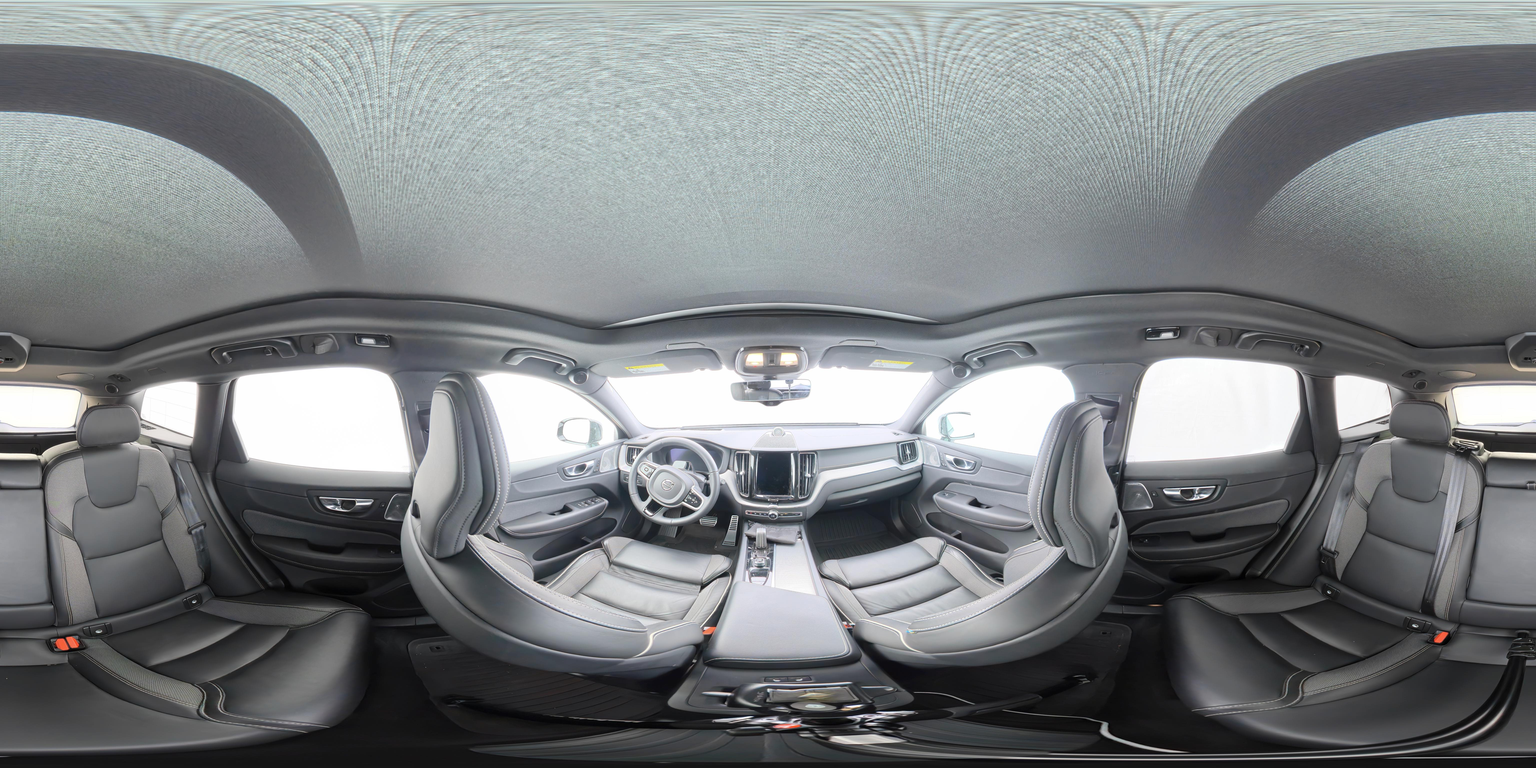
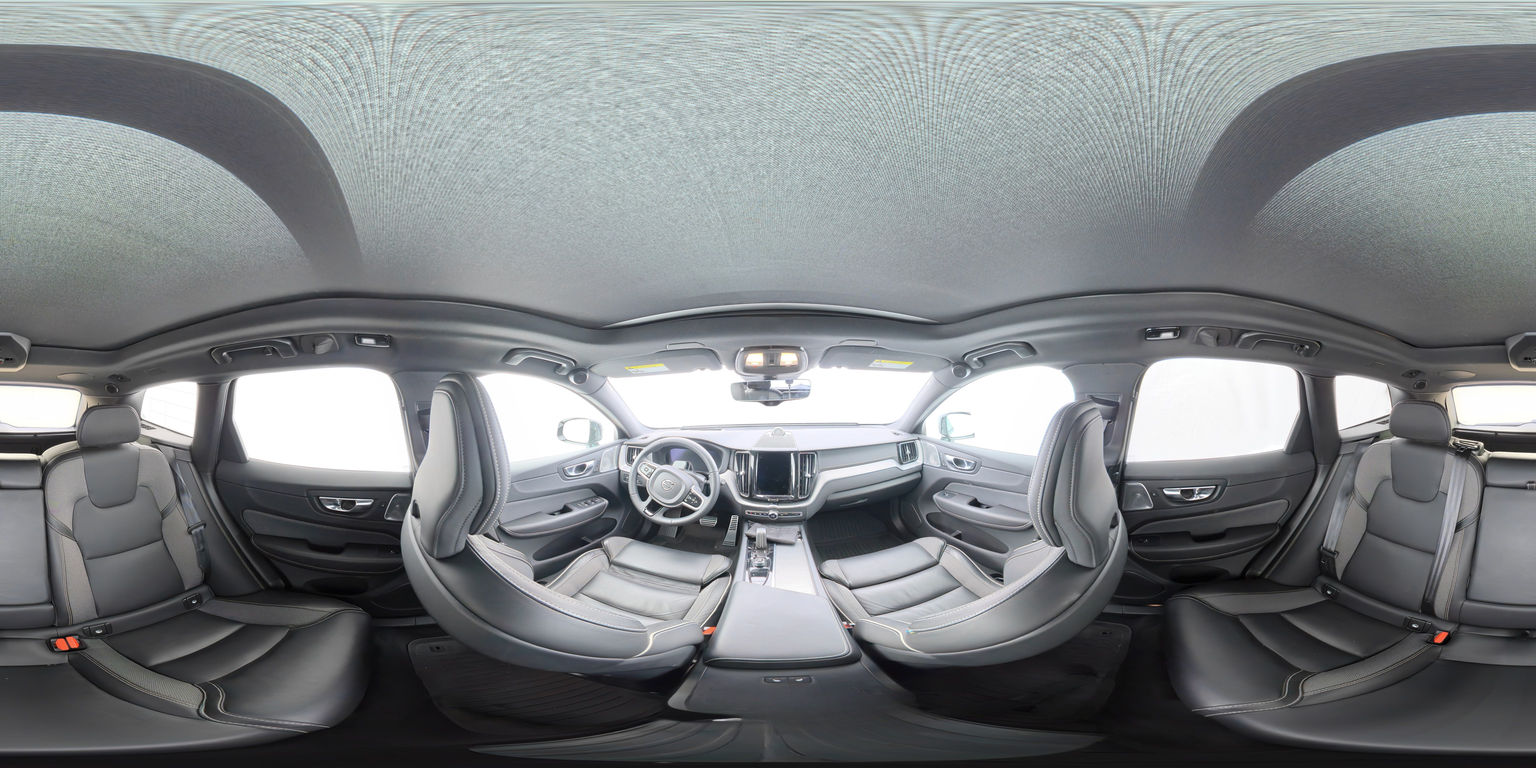
No-tripod panorama and aerial map inset
- photo.jpg: IMG_20260923_122559_00_011_notripod (tripod/cables retouched out),
  6144x3072 JPEG; aligned with the previous photo so all markers stay put
- Map inset ported from 20260921_360_Tour: aerial + hot zones, "You are here"
  caption, rounded/bordered frame at 80% opacity; Alcove is the current zone
  and hovering it re-centers to the opening view (70/70 easing)

Changed region(s): [[0.4062, 0.8125, 1.0, 1.0]]

diff --git a/index.html b/index.html
@@ -62,18 +62,26 @@
   #card p { margin: 0; font-size: 12pt; font-weight: 400; line-height: 1.4; }
   #card p:empty { display: none; }
   #card .close { position: absolute; top: -2.4em; right: 0; padding: 0.4em 0.6em; border: 0; background: none; color: #ffffff; font: 400 16pt system-ui; cursor: pointer; }
-  #map { position: fixed; right: 12px; top: 12px; width: 240px; height: 160px; background: rgba(0,0,0,0.55); border-radius: 2.64px; z-index: 10; }
-  #map-svg { width: 100%; height: 100%; }
-  #map-svg text { font-family: 'Formular', system-ui, sans-serif; font-size: 9px; fill: #fff; }
-  #map-svg .node { fill: #fff; stroke: rgba(0,0,0,0.4); stroke-width: 1; }
-  #map-svg .node.current { fill: #ff9500; }
-  #map-svg line { stroke: rgba(255,255,255,0.5); stroke-width: 1.5; }
+  /* map/legend inset: caption strip on top, aerial below. 80% opacity at rest so it sits back
+     from the panorama, full opacity while the pointer is over it so zone highlights read clearly */
+  #map { position: fixed; right: 12px; top: 12px; width: 240px; z-index: 10; overflow: hidden; background: #000000; border: 1px solid rgba(255, 255, 255, 0.35); border-radius: 6px; opacity: 0.8; transition: opacity 0.2s; }
+  #map:hover { opacity: 1; }
+  #map-caption { padding: 6px 8px 5px; color: #ffffff; font: 700 8pt 'Formular', system-ui, sans-serif; letter-spacing: 0.08em; text-transform: uppercase; }
+  #map-caption small { font-weight: 400; letter-spacing: 0.04em; text-transform: none; color: rgba(255, 255, 255, 0.65); margin-left: 6px; }
+  #map-view { position: relative; height: 160px; }
+  #map-svg { display: block; width: 100%; height: 100%; }
+  /* hot zones: invisible until hovered, then filled in the zone yellow from the Illustrator file */
+  #map-svg .zone { fill: #ffc200; fill-opacity: 0; cursor: pointer; transition: fill-opacity 0.15s; }
+  #map-svg .zone:hover { fill-opacity: 0.6; }
+  #map-svg .zone.current { fill: #ff9500; fill-opacity: 0.75; cursor: default; }
+  #map-label { position: absolute; left: 6px; bottom: 6px; padding: 2px 6px; background: #000000; border-radius: 2px; color: #ffffff; font: 700 8pt 'Formular', system-ui, sans-serif; letter-spacing: 0.08em; text-transform: uppercase; pointer-events: none; opacity: 0; transition: opacity 0.15s; }
+  #map-label.show { opacity: 1; }
 </style>
 </head>
 <body>
 <div id="viewer"></div>
 <div id="banner">UNDER CONSTRUCTION</div>
-<div id="map"><svg id="map-svg" viewBox="0 0 240 160"></svg></div>
+<div id="map"><div id="map-caption">You Are Here<small id="map-here"></small></div><div id="map-view"><svg id="map-svg" viewBox="0 0 1200 800"></svg><div id="map-label"></div></div></div>
 <div id="card"><div class="box">
   <button class="close" aria-label="Close">✕</button>
   <div class="video"></div>
@@ -157,8 +165,11 @@ const livingMarkers = [
 const arrowSvg = '<svg viewBox="0 0 100 100" width="27" height="27"><circle cx="50" cy="50" r="44" fill="#ffffff"/><path d="M28 58 L50 36 L72 58" fill="none" stroke="#111111" stroke-width="9" stroke-linecap="round" stroke-linejoin="round"/></svg>';
 const arrowMarkers = [].map(m => ({ ...m, html: arrowSvg, size: { width: 27, height: 27 }, className: 'tour-arrow' }));
 
+// opening view, also where hovering the map's "you are here" zone re-centers to
+const START_VIEW = { yaw: '0deg', pitch: '0deg' };
 const viewer = new Viewer({
   container: 'viewer', panorama: 'photo.jpg', defaultZoomLvl: 30, navbar: false,
+  defaultYaw: START_VIEW.yaw, defaultPitch: START_VIEW.pitch,
   plugins: [[MarkersPlugin, { markers: [...livingMarkers, ...arrowMarkers] }]],
 });
 
@@ -190,54 +201,77 @@ viewer.getPlugin(MarkersPlugin).addEventListener('select-marker', ({ marker }) =
 card.addEventListener('click', e => { if (e.target === card || e.target.classList.contains('close')) closeCard(); });
 document.addEventListener('keydown', e => { if (e.key === 'Escape') closeCard(); });
 
-// Map/legend inset — WIREFRAME ONLY. There's only one real photo on this page, so "Tech Theater" is
-// the only real node; the other five are stand-ins for wherever arrow1–arrow5 will eventually lead,
-// just to test the look of the corner inset before there's a second location to actually navigate to.
-// Also prototyping here: a background graphic behind the dots (a plain rect stands in for it — there's
-// no real floor plan yet) and click-to-place hotspots on it, the same way every marker on the panorama
-// itself was placed — click, read the logged position out of the console, hand-place it.
-// Same design as the Swift app's exporter (RR_360_Tour_Swift/Export/HTMLBuilder.swift) — tune it here,
-// then carry any changes back there, including the eventual real graphic + hotspot data.
-const mapNodes = [
-  { id: 'interior', name: 'Interior', x: 120, y: 80, current: true },
+// Map/legend inset. Background is the aerial from the Illustrator artboard (360Tour_Map.svg,
+// 1200x800) flattened to map/aerial.webp with its clip/rotation/scale baked in; the hot zones
+// below are that file's shapes copied verbatim, so they share its 1200x800 coordinates. Zones
+// stay invisible until hovered, then fill and show their name; hovering a zone with an `arrow`
+// also turns the panorama to face that arrow (the way there) and pulses it. `target` is where a click will
+// navigate once there's a second panorama to go to — until then a click just logs the zone.
+// Same design as the Swift app's exporter (RR_360_Tour_Swift/Export/HTMLBuilder.swift) — carry
+// changes back there once settled.
+const mapZones = [
+  { id: 'alcove', name: 'Alcove', target: null, current: true,
+    shape: '<rect x="357.65" y="254.71" width="264.24" height="83.32"/>' },
+  { id: 'alcove-2', name: 'Tech Theater', target: null,
+    shape: '<path d="M756.42,309.68c-2.87.55-8.73,4.76-21.78,31.57-6.11,12.54-14.11,95.6-3.18,117.46.73,1.45-.79,10.25,7.47,23.29,6.39,10.08,9.74,23.6,22.55,24.37,20.97,1.26,33.93-29.13,34.1-33.66,1.17-31.69,2.19-82.38,1.27-114.46-.52-17.96-15.46-36.71-22.28-42.24-4.73-3.84-7.53-8.37-18.15-6.33Z"/>' },
+  { id: 'entrance', name: 'Entrance', target: null,
+    shape: '<rect x="758.24" y="332.32" width="295.12" height="153.13" transform="translate(1314.6806 -496.9137) rotate(90)"/>' },
+  { id: 'back-of-house', name: 'Back of House', target: null,
+    shape: '<rect x="365.36" y="482.34" width="264.24" height="83.32"/>' },
 ];
+// the zone with `current: true` is where this panorama was taken: it stays lit instead of only
+// on hover, and its name fills the caption ("You are here · Tech Theater")
+document.getElementById('map-here').textContent = mapZones.find(z => z.current)?.name ?? '';
+// aim a little above the arrow rather than dead-center on it, so it lands just below the
+// mid-screen UNDER CONSTRUCTION banner instead of behind it (can go to 0 once the banner does)
+const ARROW_VIEW_LIFT = 8;   // degrees
+
+// After Effects-style easy ease for the turn: 70% influence out of the start keyframe and 70% into
+// the end one, both at 0 speed — i.e. cubic-bezier(0.7, 0, 0.3, 1). Solves the bezier's x for t
+// (Newton's method, falling back to bisection), then returns its y.
+const cubicBezier = (x1, y1, x2, y2) => {
+  const bez = (t, a, b) => 3 * a * t * (1 - t) ** 2 + 3 * b * t * t * (1 - t) + t ** 3;
+  const dBez = (t, a, b) => 3 * a * (1 - t) ** 2 + 6 * (b - a) * t * (1 - t) + 3 * (1 - b) * t * t;
+  return x => {
+    if (x <= 0 || x >= 1) return x <= 0 ? 0 : 1;
+    let t = x;
+    for (let i = 0; i < 8; i++) {
+      const d = dBez(t, x1, x2);
+      if (Math.abs(d) < 1e-6) break;
+      t -= (bez(t, x1, x2) - x) / d;
+    }
+    if (!(t >= 0 && t <= 1) || Math.abs(bez(t, x1, x2) - x) > 1e-5) {
+      let lo = 0, hi = 1;
+      for (let i = 0; i < 40; i++) { t = (lo + hi) / 2; if (bez(t, x1, x2) < x) lo = t; else hi = t; }
+    }
+    return bez(t, y1, y2);
+  };
+};
+const EASE_70_70 = cubicBezier(0.7, 0, 0.3, 1);
 const mapSvg = document.getElementById('map-svg');
-
-// stand-in for a real floor-plan graphic, drawn first so the dots/lines paint on top of it
-const mapBg = document.createElementNS('http://www.w3.org/2000/svg', 'rect');
-mapBg.setAttribute('x', 0); mapBg.setAttribute('y', 0);
-mapBg.setAttribute('width', 240); mapBg.setAttribute('height', 160);
-mapBg.setAttribute('fill', '#222222');
-mapBg.setAttribute('stroke', 'rgba(255,255,255,0.3)');
-mapSvg.appendChild(mapBg);
-
-mapNodes.slice(1).forEach(n => {
-  const line = document.createElementNS('http://www.w3.org/2000/svg', 'line');
-  line.setAttribute('x1', mapNodes[0].x); line.setAttribute('y1', mapNodes[0].y);
-  line.setAttribute('x2', n.x); line.setAttribute('y2', n.y);
-  mapSvg.appendChild(line);
-});
-mapNodes.forEach(n => {
-  const dot = document.createElementNS('http://www.w3.org/2000/svg', 'circle');
-  dot.setAttribute('cx', n.x); dot.setAttribute('cy', n.y); dot.setAttribute('r', 6);
-  dot.setAttribute('class', 'node' + (n.current ? ' current' : ''));
-  mapSvg.appendChild(dot);
-  const label = document.createElementNS('http://www.w3.org/2000/svg', 'text');
-  label.setAttribute('x', n.x + 9); label.setAttribute('y', n.y + 3);
-  label.textContent = n.name;
-  mapSvg.appendChild(label);
-});
-
-// click anywhere in the inset to log a normalized hotspot position — same idea as the
-// panorama's click-to-log-yaw/pitch above, shaped so it pastes straight into a node definition
-mapSvg.addEventListener('click', e => {
-  const pt = mapSvg.createSVGPoint();
-  pt.x = e.clientX; pt.y = e.clientY;
-  const svgPt = pt.matrixTransform(mapSvg.getScreenCTM().inverse());
-  const vb = mapSvg.viewBox.baseVal;
-  const x = (svgPt.x - vb.x) / vb.width;
-  const y = (svgPt.y - vb.y) / vb.height;
-  console.log(`{ x: '${x.toFixed(3)}', y: '${y.toFixed(3)}' }`);
+const mapLabel = document.getElementById('map-label');
+mapSvg.innerHTML = '<image href="map/aerial.webp" width="1200" height="800"/>' +
+  mapZones.map(z => `<g class="zone${z.current ? ' current' : ''}" data-zone="${z.id}">${z.shape}</g>`).join('');
+mapSvg.querySelectorAll('.zone').forEach(g => {
+  const zone = mapZones.find(z => z.id === g.dataset.zone);
+  const arrow = zone.arrow && arrowMarkers.find(a => a.id === zone.arrow);
+  const arrowEl = () => arrow && document.getElementById(`psv-marker-${arrow.id}`);
+  g.addEventListener('mouseenter', () => {
+    mapLabel.textContent = zone.name; mapLabel.classList.add('show');
+    // "you are here" zone re-centers on the opening view; any other zone turns the panorama to
+    // face the arrow that leads there, and pulses it
+    if (zone.current) {
+      viewer.animate({ ...START_VIEW, speed: 1000, easing: EASE_70_70 });
+    } else if (arrow) {
+      viewer.animate({ yaw: arrow.position.yaw, pitch: `${parseFloat(arrow.position.pitch) + ARROW_VIEW_LIFT}deg`, speed: 1000, easing: EASE_70_70 });
+      arrowEl()?.classList.add('tour-arrow--focus');
+    }
+  });
+  g.addEventListener('mouseleave', () => {
+    mapLabel.classList.remove('show');
+    arrowEl()?.classList.remove('tour-arrow--focus');
+  });
+  g.addEventListener('click', () => console.log(`map zone: ${zone.id}`, zone.target ?? '(no target yet)'));
 });
 
 // banner timeline, in frames
